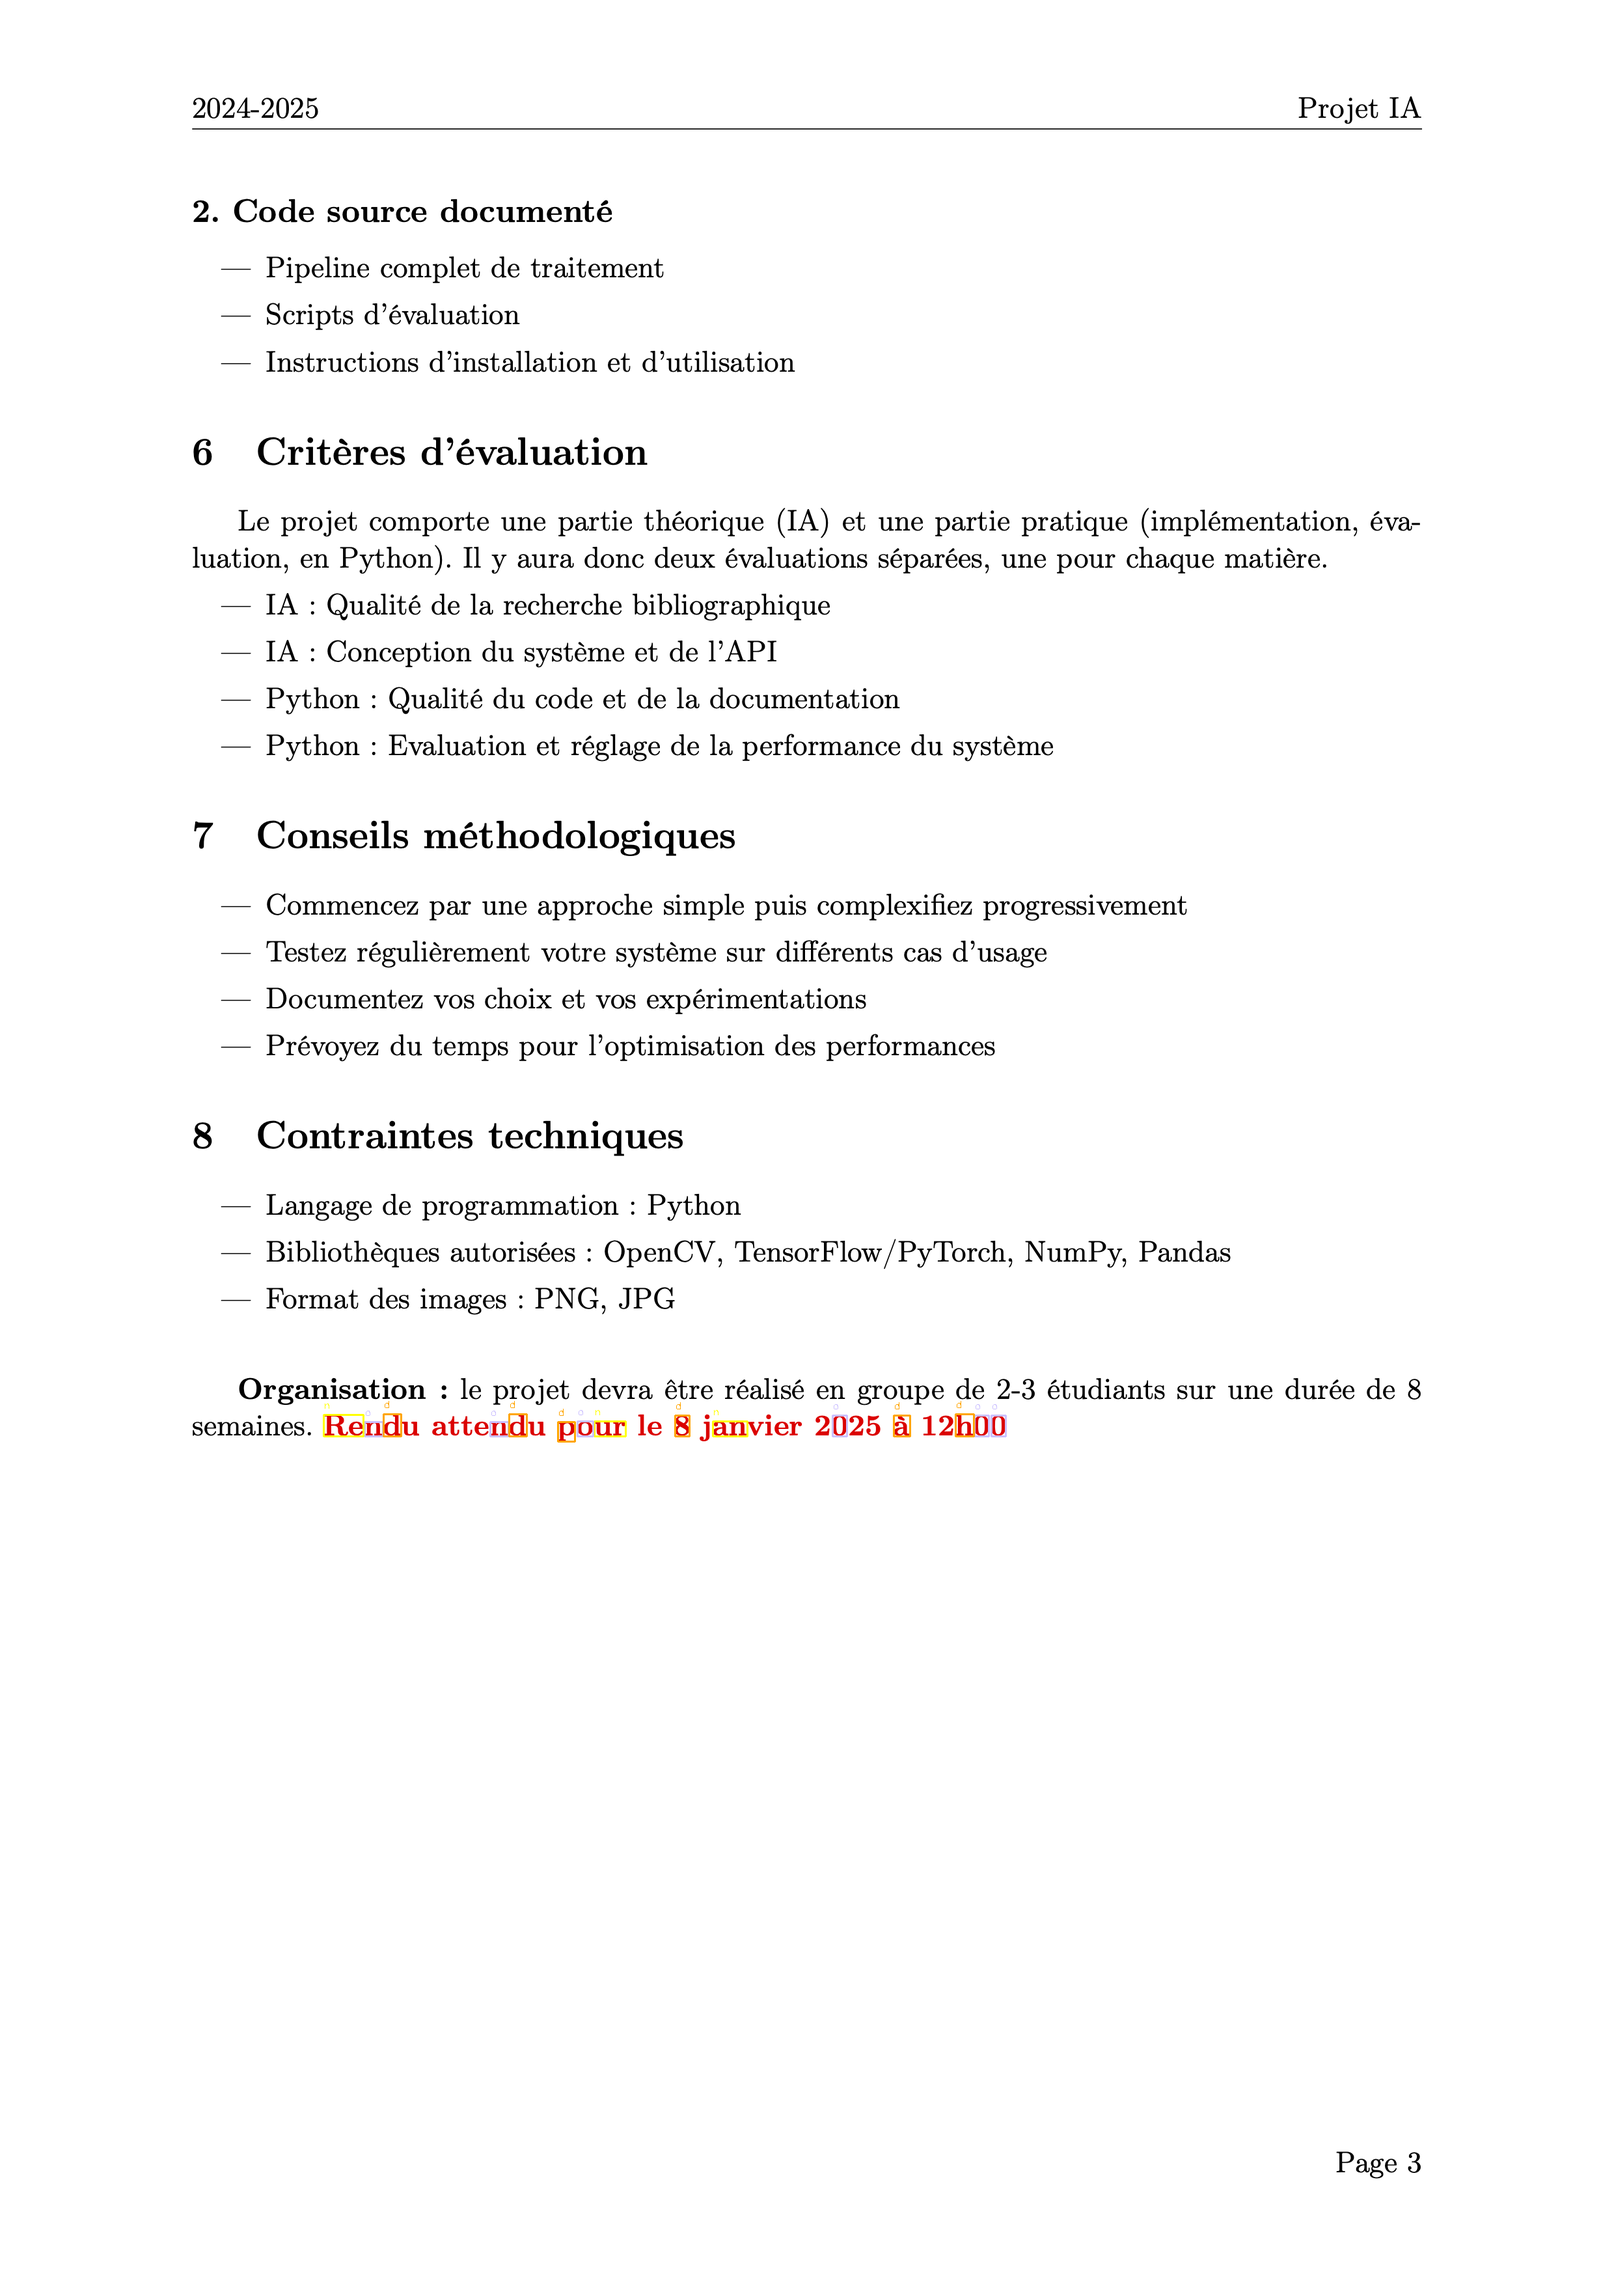
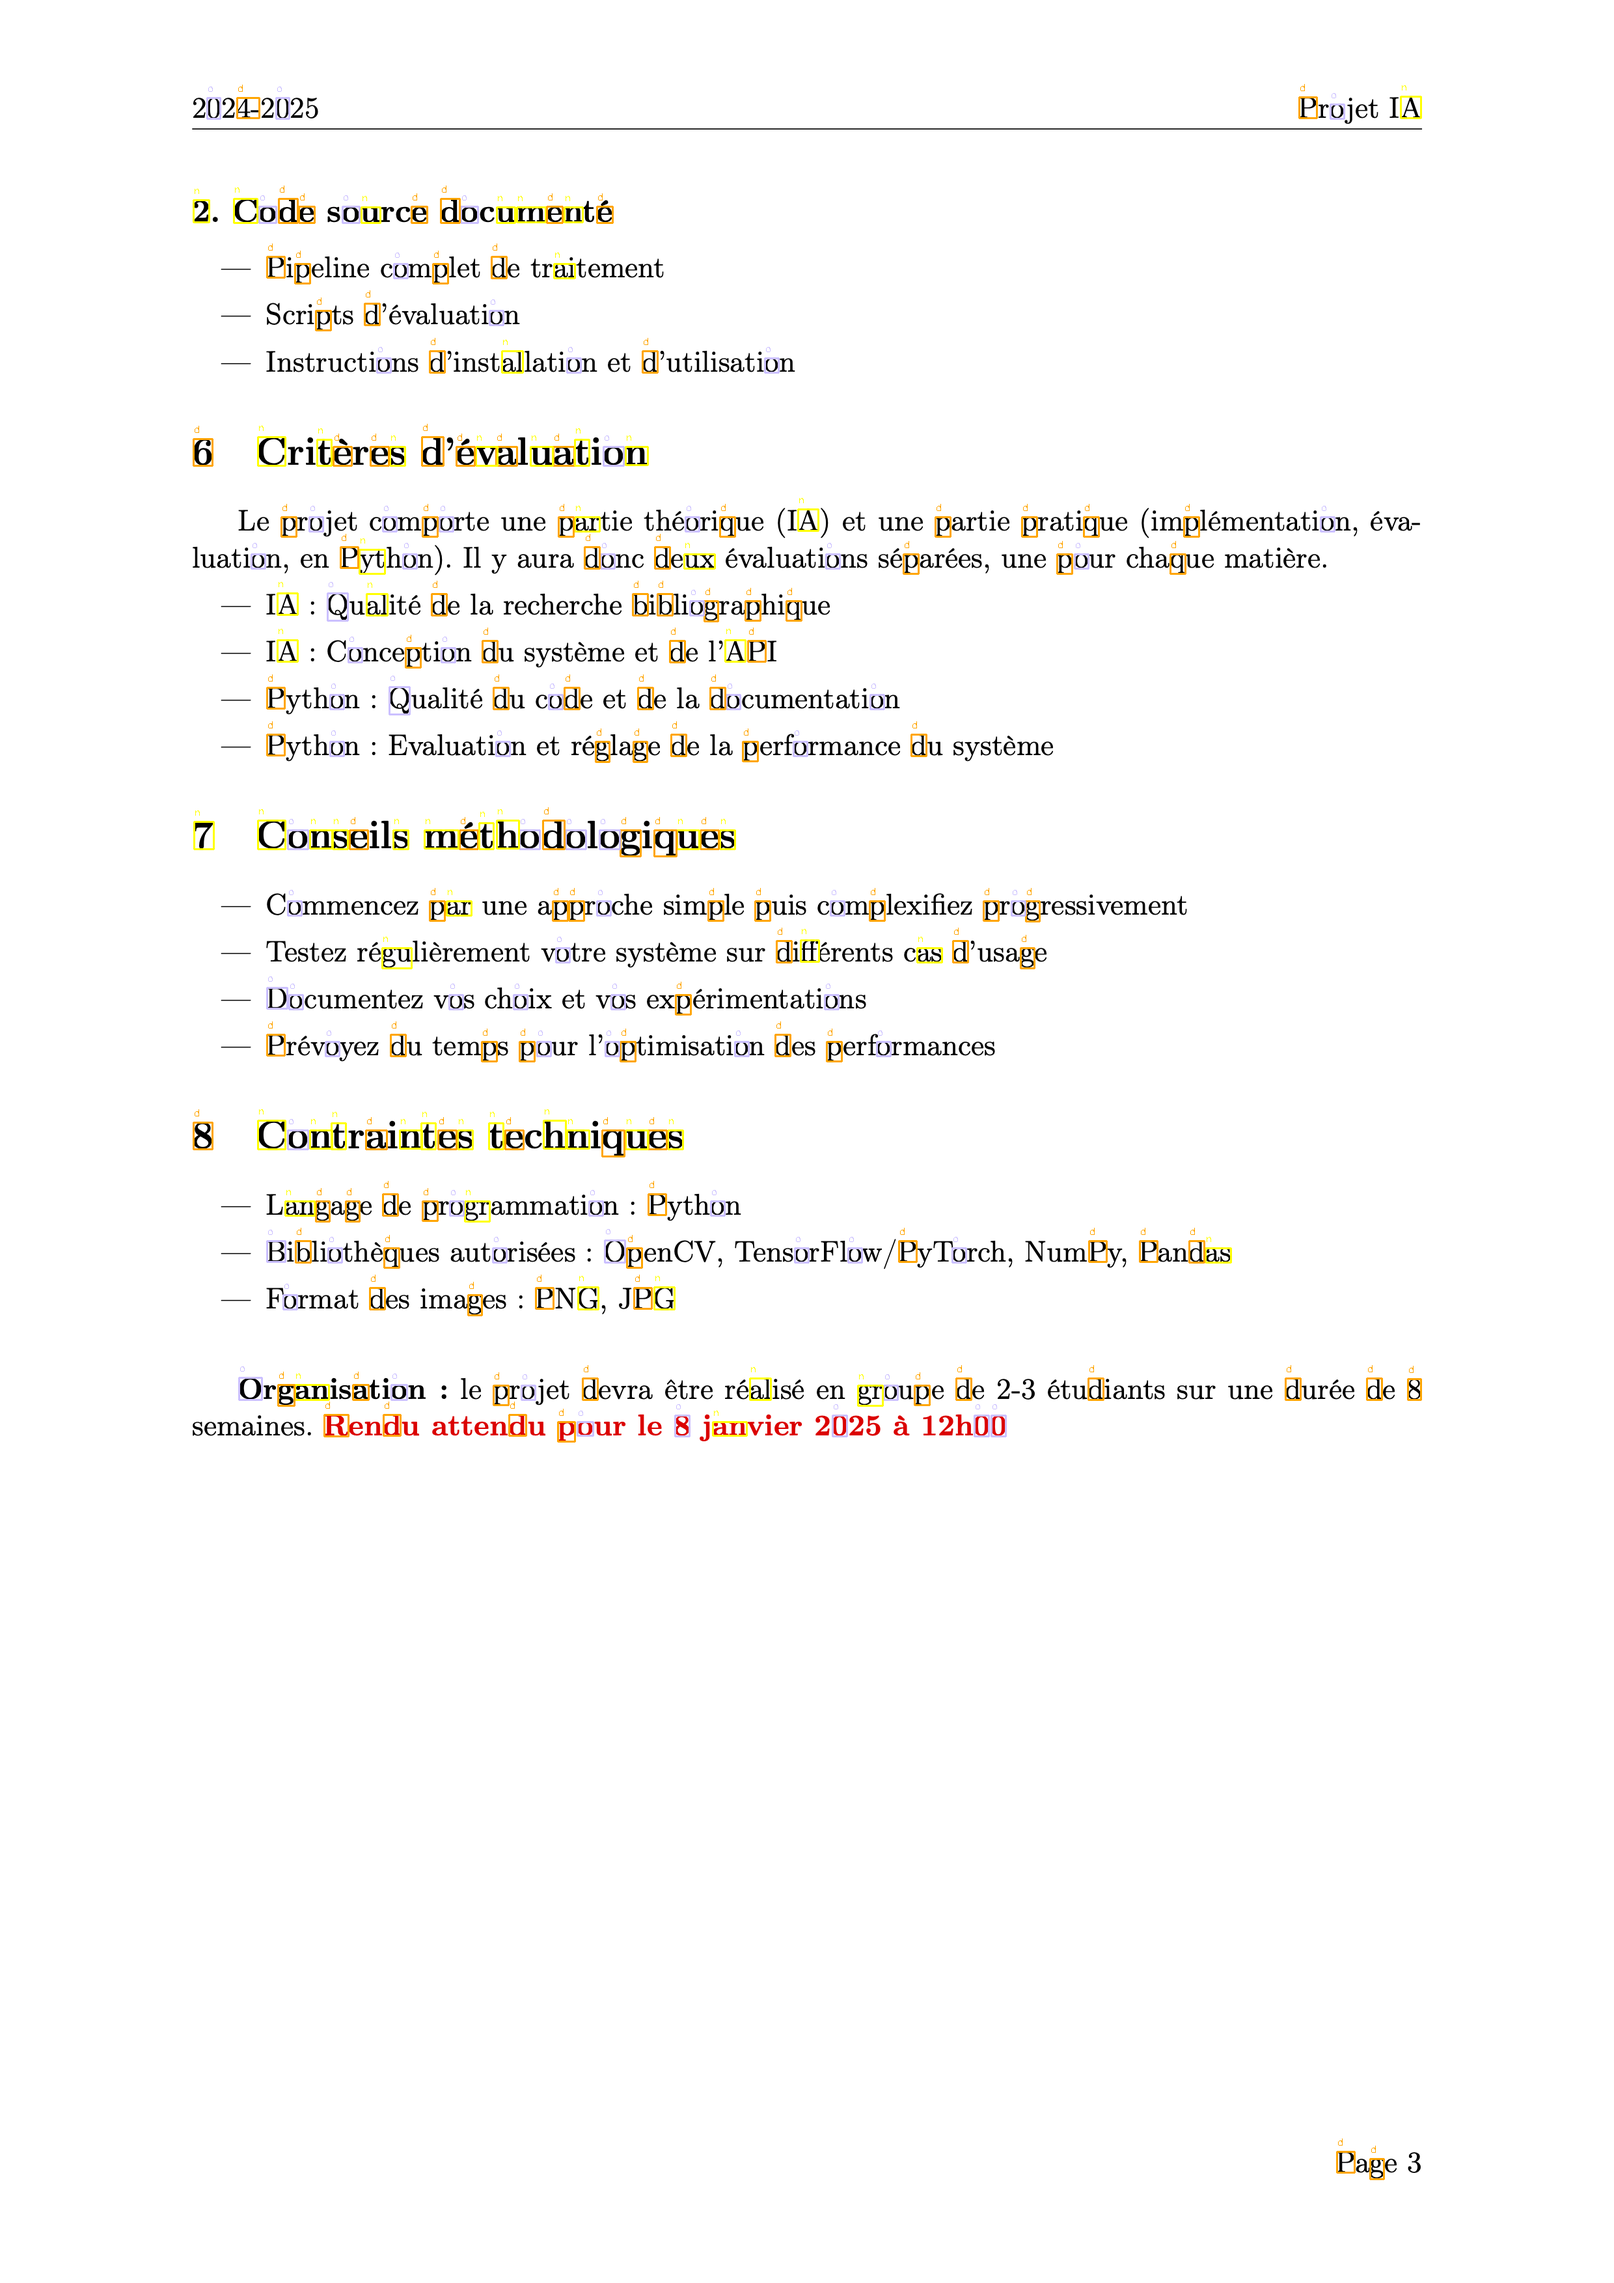
Touches finales

diff --git a/Code/scripts/composants_connexes_caracteres.py b/Code/scripts/composants_connexes_caracteres.py
@@ -1,0 +1,75 @@
+import cv2
+import numpy as np
+
+# Configuration des caractères
+CARACTERES = [
+    {"path": "../data/caracteres/catalogue/2.png", "label": "2", "color": (0, 0, 255)},
+    {"path": "../data/caracteres/catalogue/d.png", "label": "d", "color": (0, 165, 255)},
+    {"path": "../data/caracteres/catalogue/I.png", "label": "I", "color": (255, 0, 255)},
+    {"path": "../data/caracteres/catalogue/n.png", "label": "n", "color": (0, 255, 255)},
+    {"path": "../data/caracteres/catalogue/o.png", "label": "o", "color": (255, 192, 203)},
+    {"path": "../data/caracteres/catalogue/u.png", "label": "u", "color": (255, 255, 0)},
+]
+
+HU_MOMENTS_SIZE = 7
+
+# Charge et traite les images des caractères en extrayant leurs caractéristiques de forme
+def load_caractere_features():
+    caractere_features = []
+    labels = []
+    colors = []
+    for caractere in CARACTERES:
+        thresholded_img = preprocess_image(caractere["path"])
+        feature = extract_shape_features(thresholded_img)
+        if feature is not None:  # Vérifie si les caractéristiques sont valides
+            caractere_features.append(feature)
+            labels.append(caractere["label"])
+            colors.append(caractere["color"])
+    return np.array(caractere_features), labels, colors
+
+# Charge une image, applique le seuillage
+def preprocess_image(image_path):
+    img = cv2.imread(image_path, cv2.IMREAD_GRAYSCALE)
+    if img is None:
+        raise FileNotFoundError(f"Image not found: {image_path}")
+    _, thresholded = cv2.threshold(img, 0, 255, cv2.THRESH_BINARY_INV + cv2.THRESH_OTSU)
+    return thresholded
+
+# Prétraitement pour binarisation
+def preprocess_image_for_thresholding(image):
+    blurred = cv2.GaussianBlur(image, (5, 5), 0)
+    _, thresholded = cv2.threshold(blurred, 0, 255, cv2.THRESH_BINARY_INV + cv2.THRESH_OTSU)
+    return thresholded
+
+# Détecte les composants dans la page et retourne leurs contours et caractéristiques
+def extract_components(page_img, min_area=300):
+    gray_cleaned = cv2.cvtColor(page_img, cv2.COLOR_BGR2GRAY)
+    threshold_img = preprocess_image_for_thresholding(gray_cleaned)
+    contours, _ = cv2.findContours(threshold_img, cv2.RETR_EXTERNAL, cv2.CHAIN_APPROX_SIMPLE)
+    components = []
+    filtered_contours = []
+    for contour in contours:
+        if cv2.contourArea(contour) > min_area:
+            x, y, w, h = cv2.boundingRect(contour)
+            component_img = threshold_img[y:y+h, x:x+w]
+            features = extract_shape_features(component_img)
+            if features is not None:
+                components.append(features)
+                filtered_contours.append((x, y, w, h))
+    return np.array(components), filtered_contours
+
+# Extrait les caractéristiques de forme à partir des moments de Hu
+def extract_shape_features(image):
+    contours, _ = cv2.findContours(image, cv2.RETR_EXTERNAL, cv2.CHAIN_APPROX_SIMPLE)
+    features = []
+    for contour in contours:
+        if cv2.contourArea(contour) > 300:
+            hu_moments = cv2.HuMoments(cv2.moments(contour)).flatten()
+            features.extend(hu_moments)  # Ajoute tous les moments de Hu pour le contour
+
+    # Assure que le vecteur de caractéristiques a une taille fixe
+    features = features[:HU_MOMENTS_SIZE]  # Tronque si nécessaire
+    while len(features) < HU_MOMENTS_SIZE:
+        features.append(0)  # Complète avec des zéros si nécessaire
+
+    return np.array(features) if features else None

diff --git a/Code/scripts/kppv_caracteres.py b/Code/scripts/kppv_caracteres.py
@@ -1,0 +1,61 @@
+import numpy as np
+import pandas as pd
+import tensorflow as tf
+import cv2
+from composants_connexes_caracteres import extract_components, load_caractere_features
+
+import time
+start_time = time.time()
+
+K = 3
+SIMILARITY_THRESHOLD = 0.5
+
+# Attribue une étiquette à chaque composant en utilisant k-ppv
+def knn_classification(components, caractere_features, caractere_labels, k, similarity_threshold=SIMILARITY_THRESHOLD):
+    components_tensor = tf.convert_to_tensor(components, dtype=tf.float32)
+    caracteres_tensor = tf.convert_to_tensor(caractere_features, dtype=tf.float32)
+    distances = tf.norm(components_tensor[:, None, :] - caracteres_tensor[None, :, :], axis=-1)
+    labels = []
+    for i in range(len(components)):
+        nearest_neighbors_indices = tf.argsort(distances[i])[:k]
+        nearest_distances = distances[i].numpy()[nearest_neighbors_indices.numpy()]
+        min_distance = nearest_distances[0]
+        if min_distance < similarity_threshold:
+            neighbor_labels = [caractere_labels[idx] for idx in nearest_neighbors_indices.numpy()]
+            label_counts = pd.Series(neighbor_labels).value_counts().idxmax()
+            labels.append(label_counts)
+        else:
+            labels.append(None)  # Si la distance est trop grande, ignorer ce composant
+    return labels
+
+# Annote l'image avec les étiquettes et les contours des composants
+def annotate_image(page_img, contours, labels, caractere_labels, caractere_colors):
+    annotated_img = page_img.copy()
+    for (x, y, w, h), label in zip(contours, labels):
+        if label is not None:  # Si l'étiquette est valide
+            idx = caractere_labels.index(label)
+            color = caractere_colors[idx]
+            cv2.rectangle(annotated_img, (x, y), (x+w, y+h), color, 2)
+            cv2.putText(annotated_img, label, (x, y-10), cv2.FONT_HERSHEY_SIMPLEX, 0.5, color, 1)
+    return annotated_img
+
+# Traitement principal
+page_path = "../data/caracteres/page.png"
+page_img = cv2.imread(page_path)
+if page_img is None:
+    raise FileNotFoundError(f"Page image not found: {page_path}")
+
+caractere_features, caractere_labels, caractere_colors = load_caractere_features()
+components, contours = extract_components(page_img)
+
+if components.size > 0:
+    labels = knn_classification(components, caractere_features, caractere_labels, K)
+    labeled_img = annotate_image(page_img, contours, labels, caractere_labels, caractere_colors)
+    cv2.imwrite("../output/annotated_page.png", labeled_img)
+    print("Image annotée sauvegardée sous 'annotated_page.png'")
+else:
+    print("Aucun composant détecté dans le page.")
+    
+    
+
+print("--- %s seconds ---" % (time.time() - start_time))

diff --git a/Code/scripts/kppv_plans.py b/Code/scripts/kppv_plans.py
@@ -2,7 +2,7 @@ import numpy as np
 import pandas as pd
 import tensorflow as tf
 import cv2
-from composants_connexes import extract_components, load_luminaire_features  # Importer les fonctions du fichier composants_connexes
+from composants_connexes_plans import extract_components, load_luminaire_features  # Importer les fonctions du fichier composants_connexes
 
 K = 3
 SIMILARITY_THRESHOLD = 500  # Seuil de similarité (distance maximale) pour valider un luminaire
